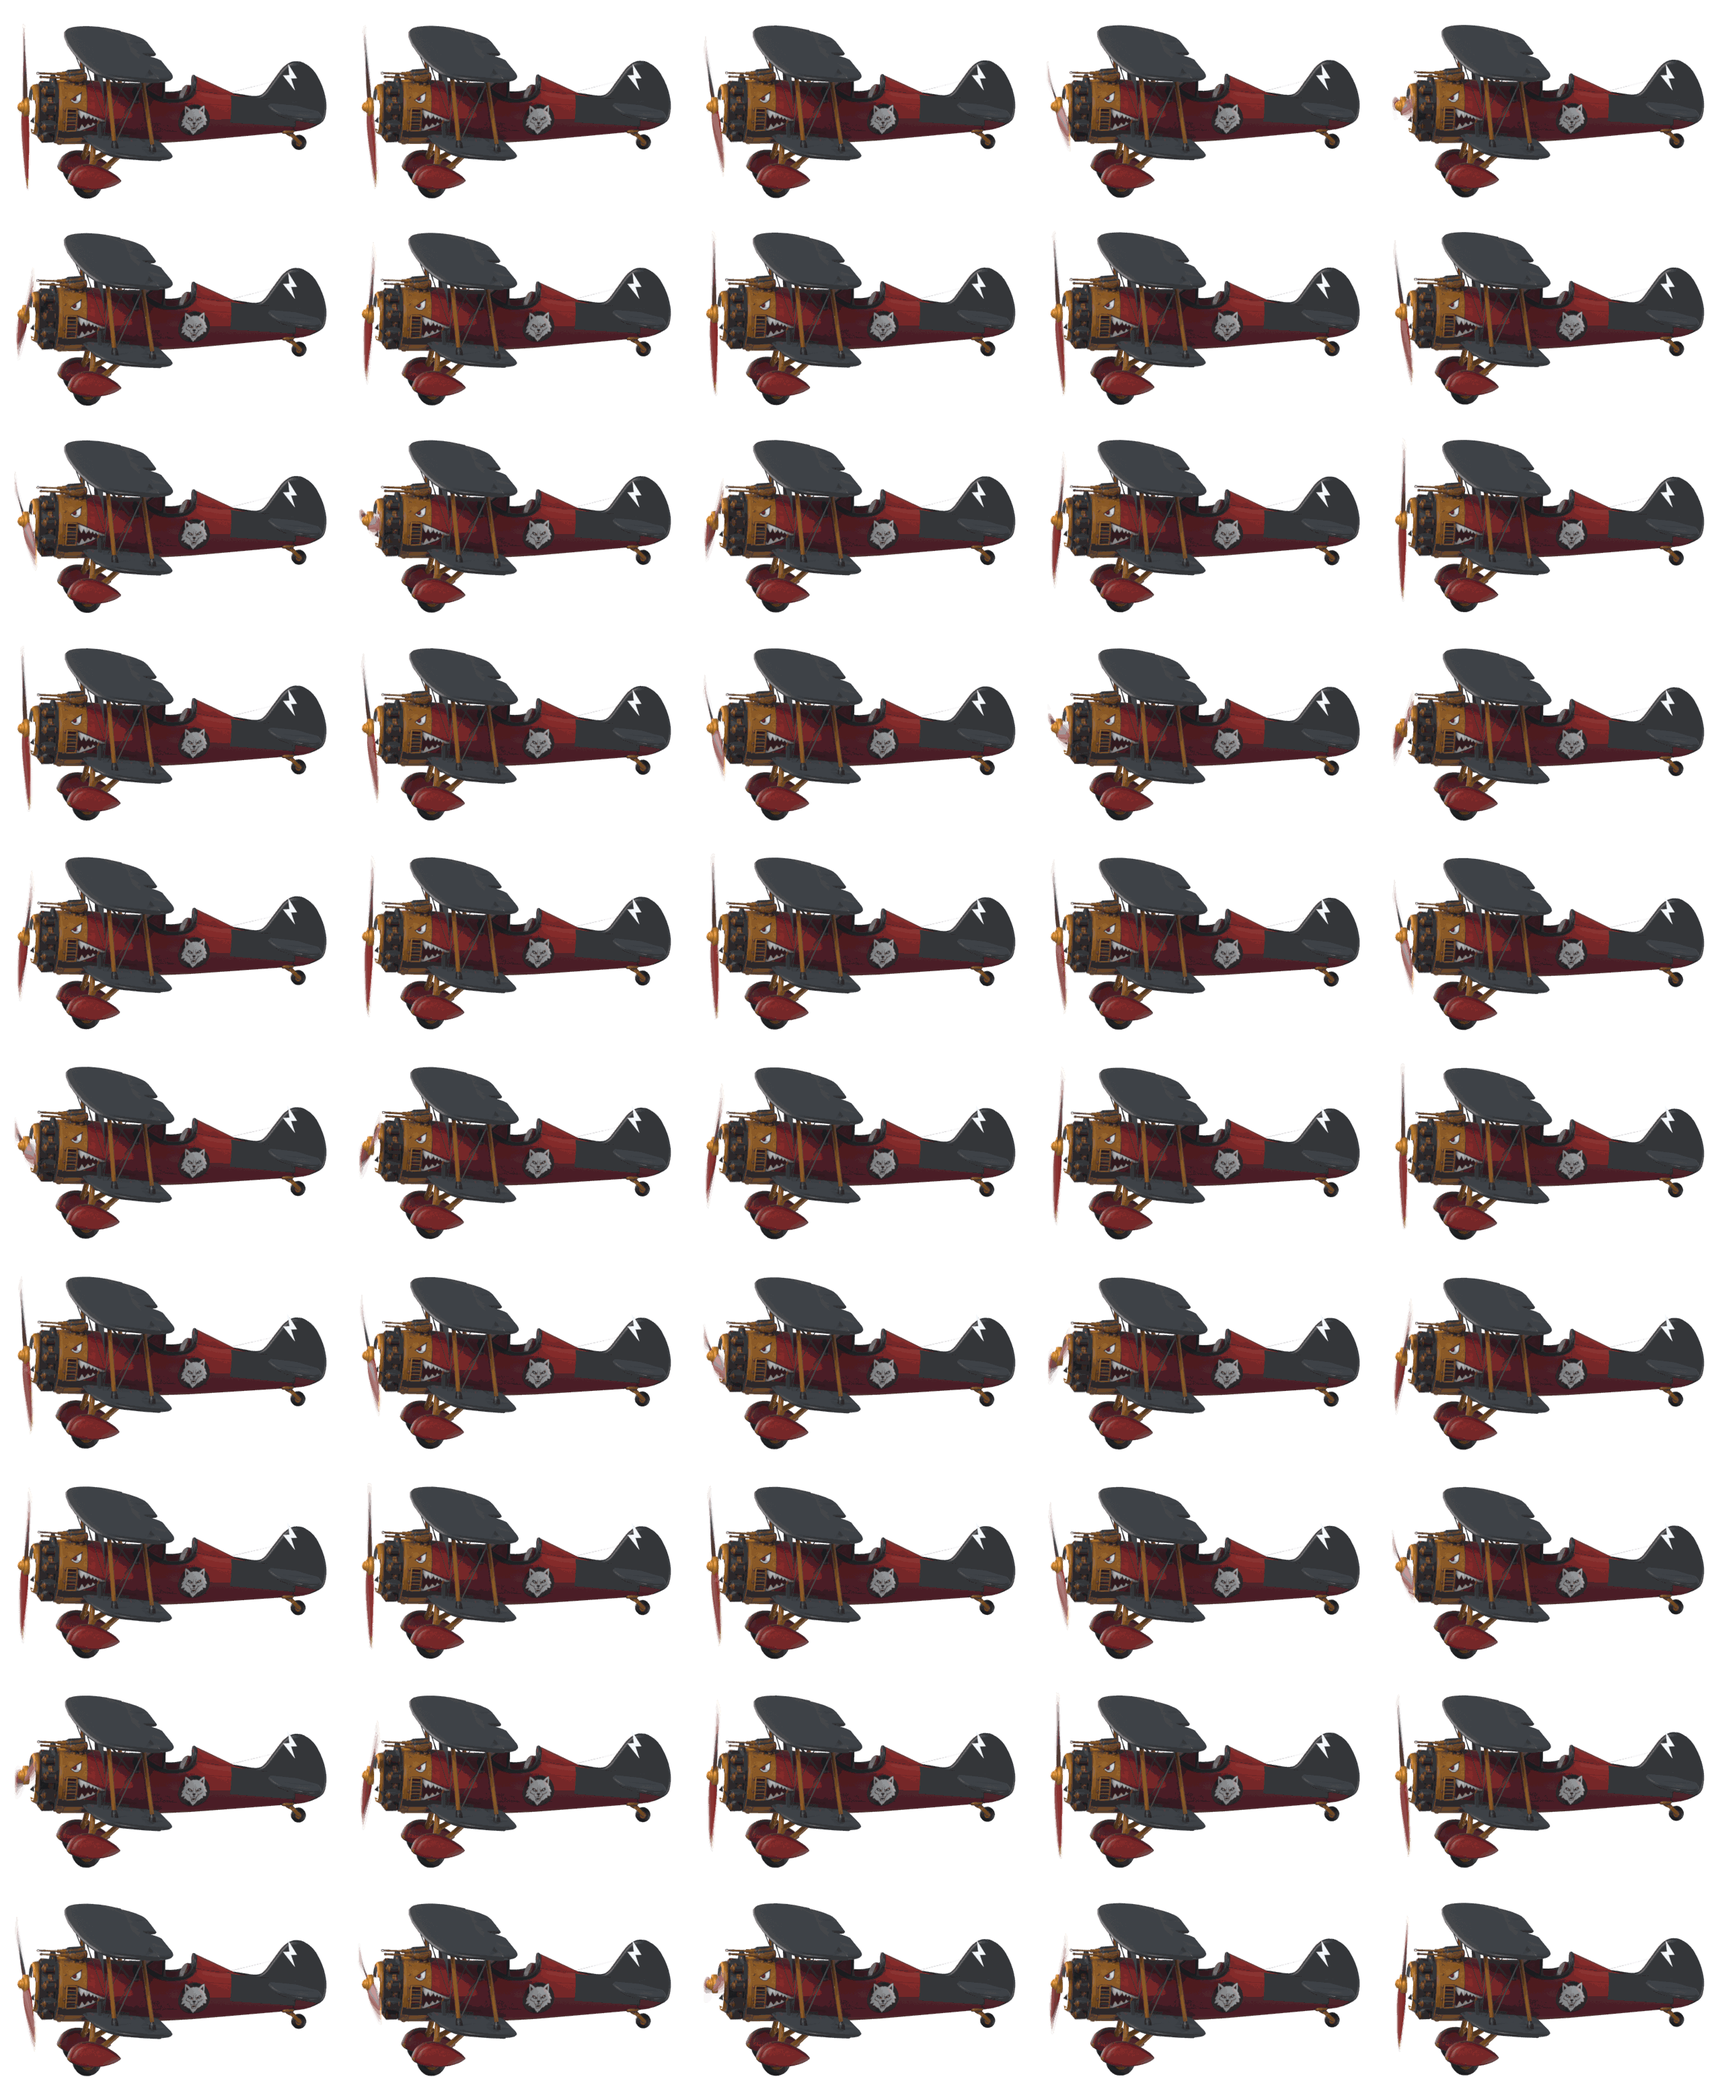
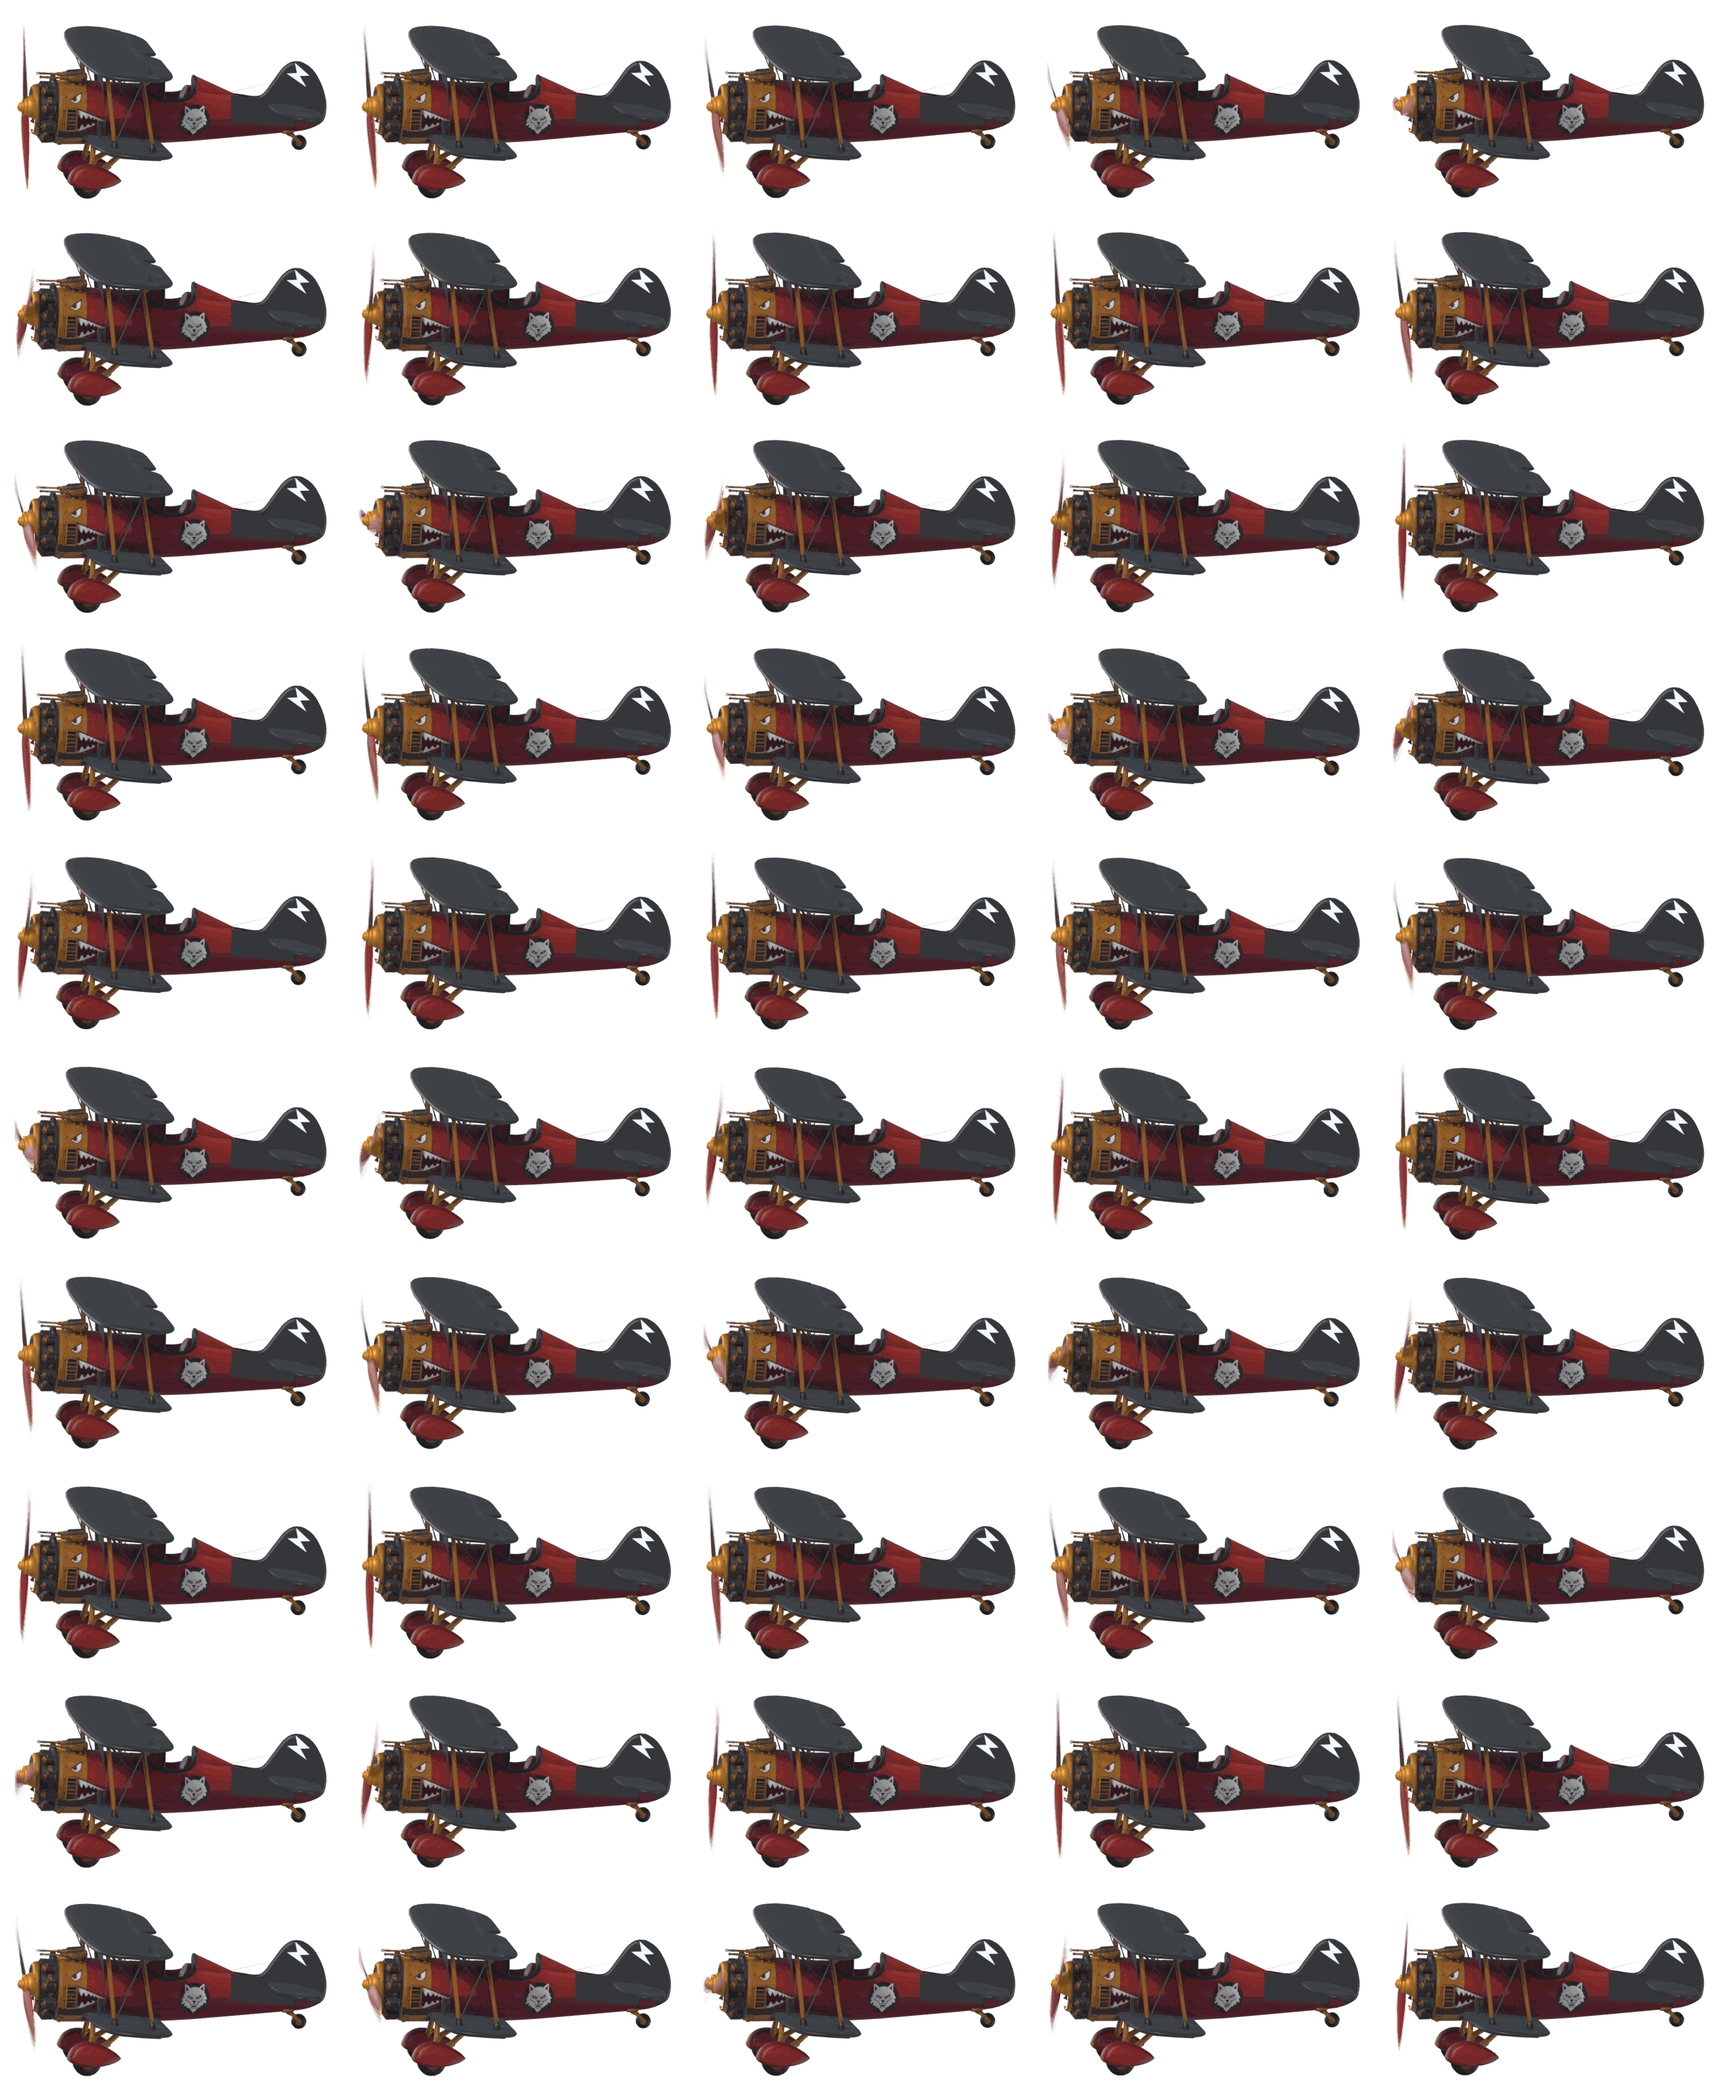
feat: brass shaft nose, lightning welded into the fin
Removing the oversized crankcase plate left the propeller floating with a gap
behind it, so there is now a brass shaft nose bridging cowling to hub — about
a third of the bore, its base sunk inside the cowling so it reads as a shaft
rather than the bell the old plate looked like.

The lightning is no longer a separate plate. As one it could only live ahead
of the hinge, which pushed it into the front half of the fin, because the fin's
midpoint is almost exactly the rudder hinge. It is welded into the airframe
mesh instead: it sits centred on the fin, and its rear half picks up the
rudder's vertex weights, so it swings with the rudder for free.

diff --git a/tools/3d/plane_pipeline.py b/tools/3d/plane_pipeline.py
@@ -249,8 +249,11 @@ def assemble_prop(m, R, m_wood, m_gold, m_brass, tag="PROP"):
     for p in dome.data.polygons: p.use_smooth = True
     parts.append(dome)
 
-    # No spinning crankcase plate here: at cowling width it sat in front of the
-    # cylinders as a mirror-bright bell. The hub alone is enough.
+    # Brass shaft nose bridging cowling to propeller. Without it the blades hang
+    # in mid-air with a gap behind them; at cowling width it read as a bell, so
+    # keep it about a third of the bore and sink its base inside the cowling.
+    parts.append(prim("primitive_cone_add", tag + "_SHAFT", (-0.11, 0, 0), vertices=44,
+                      radius1=0.40 * m["lip_r"], radius2=0.26 * m["lip_r"], depth=0.30))
 
     piv = bpy.data.objects.new(tag + "_PIVOT", None)
     bpy.context.scene.collection.objects.link(piv)
@@ -677,36 +680,41 @@ def paint_tail(o, m, color, name="TailBlack", aft_frac=0.72, mode="full"):
     return n
 
 def add_fin_bolt(o, m, color=(246, 246, 244), name="FinBolt"):
-    """White lightning decal on the fin, one flat plate on each side."""
-    V = [v.co for v in o.data.vertices]
+    """White lightning on the fin, welded into the airframe mesh itself.
+
+    As a separate plate it could only sit ahead of the hinge, which pushed it
+    into the front half of the fin instead of the middle, because the fin's
+    midpoint is almost exactly the rudder hinge. Built into the mesh, the rear
+    half picks up the rudder's vertex weights and swings with it."""
+    me = o.data
+    V = [v.co for v in me.vertices]
     fn_te, fn_le = m["fin_chord"]; fz0, fz1 = m["fin_z"]
-    hinge = fn_te + 0.46 * (fn_le - fn_te)
     fin = [c for c in V if fn_te - 0.05 <= c.x <= fn_le + 0.05
            and fz0 - 0.05 <= c.z <= fz1 + 0.20 and abs(c.y) < 0.14 * m["halfspan"]]
     half_y = max((abs(c.y) for c in fin), default=0.06)
 
-    # Keep the decal strictly inside the fin outline - it used to overshoot the
-    # top of the fin and float above the tail.
-    # fill the fin: fz0 is clipped by the measuring filter, so reach below it,
-    # and stay ahead of the hinge so the rudder does not swing out from under it
-    x0, x1 = hinge + 0.01, fn_le - 0.02
-    z0, z1 = fz0 - 0.30, fz1 - 0.01
+    x0, x1 = fn_te + 0.10, fn_le - 0.10
+    z0, z1 = fz0 - 0.26, fz1 - 0.03
     w, h = (x1 - x0), (z1 - z0)
-    # unit lightning bolt, nose of the plane is +X so the bolt leans forward
     UV = [(0.60, 1.00), (0.16, 0.46), (0.46, 0.46), (0.26, 0.00),
           (0.86, 0.58), (0.54, 0.58)]
+
     mt = mat(name + "_mat", rgb(color), 0.55, 0.0)
-    made = []
+    if mt.name not in [x.name for x in me.materials if x]:
+        me.materials.append(mt)
+    idx = [i for i, x in enumerate(me.materials) if x and x.name == mt.name][0]
+
+    bm = bmesh.new(); bm.from_mesh(me)
+    made = 0
     for sgn in (-1, 1):
-        bm = bmesh.new()
         vs = [bm.verts.new((x0 + u * w, sgn * (half_y + 0.012), z0 + v * h)) for u, v in UV]
-        try: bm.faces.new(vs if sgn > 0 else list(reversed(vs)))
-        except Exception: pass
-        bmesh.ops.recalc_face_normals(bm, faces=bm.faces[:])
-        md = bpy.data.meshes.new("%s_%d" % (name, sgn))
-        bm.to_mesh(md); bm.free()
-        md.materials.append(mt)
-        ob = bpy.data.objects.new(md.name, md)
-        bpy.context.scene.collection.objects.link(ob)
-        made.append(ob.name)
+        try:
+            f = bm.faces.new(vs if sgn > 0 else list(reversed(vs)))
+        except Exception:
+            continue
+        f.material_index = idx
+        f.smooth = False
+        made += 1
+    bmesh.ops.recalc_face_normals(bm, faces=[f for f in bm.faces if f.material_index == idx])
+    bm.to_mesh(me); bm.free(); me.update()
     return made

diff --git a/tools/3d/portrait.py b/tools/3d/portrait.py
@@ -1,0 +1,46 @@
+import bpy, math, json, os, importlib.util
+from mathutils import Vector
+BASE = r"C:\Users\serge\AppData\Local\Temp\claude\C--Users-serge-Documents-Playground-Biplanes\882b20d1-942a-41ff-b96c-218c1c8afa45\scratchpad\3d"
+def imp(n):
+    s=importlib.util.spec_from_file_location(n, os.path.join(BASE,n+".py")); m=importlib.util.module_from_spec(s); s.loader.exec_module(m); return m
+lv=imp("lib_view")
+TAG="%TAG%"
+bpy.ops.wm.open_mainfile(filepath=os.path.join(BASE,"plane_%s.blend"%TAG))
+sc=bpy.context.scene
+rig=bpy.data.objects["RIG"]
+for pb in rig.pose.bones: pb.rotation_euler=(0,0,0)
+if rig.animation_data: rig.animation_data_clear()
+piv=bpy.data.objects["PROP_PIVOT"]
+if piv.animation_data: piv.animation_data_clear()
+piv.rotation_euler=(math.radians(16),0,0)
+bpy.context.view_layer.update()
+
+# same lighting as the sprite bake, so the portraits show what the game gets
+for nm in ("K","F","R"):
+    o=bpy.data.objects.get(nm)
+    if o: bpy.data.objects.remove(o, do_unlink=True)
+w=bpy.data.worlds.get("W") or bpy.data.worlds.new("W")
+sc.world=w; w.use_nodes=True
+w.node_tree.nodes["Background"].inputs[0].default_value=(0.46,0.52,0.62,1)
+w.node_tree.nodes["Background"].inputs[1].default_value=0.55
+for nm,rot,en in (("K",(math.radians(52),0,math.radians(140)),3.2),
+                  ("F",(math.radians(80),0,math.radians(30)),0.8),
+                  ("R",(math.radians(112),0,math.radians(250)),1.5)):
+    ld=bpy.data.lights.new(nm,'SUN'); ld.energy=en; ld.angle=math.radians(20)
+    lo=bpy.data.objects.new(nm,ld); sc.collection.objects.link(lo); lo.rotation_euler=rot
+
+try: sc.render.engine='BLENDER_EEVEE_NEXT'
+except Exception: sc.render.engine='BLENDER_EEVEE'
+sc.render.image_settings.file_format='PNG'
+sc.render.use_motion_blur=False
+sc.view_settings.view_transform='Standard'
+sc.render.film_transparent=False
+try: sc.eevee.taa_render_samples=64
+except Exception: pass
+sc.render.resolution_x, sc.render.resolution_y = 1100, 750
+
+lv.VIEWS["side"]=(0.10,-1.0,0.12)
+lv.VIEWS["fq"]=(0.95,-0.85,0.32)
+lv.VIEWS["hq"]=(-0.55,-0.95,0.55)
+s=lv.shoot("p_"+TAG,["side","fq","hq"],ortho=11.2,target=(0,0,0.15),dist=30)
+print(json.dumps([os.path.basename(p) for p in s]))
